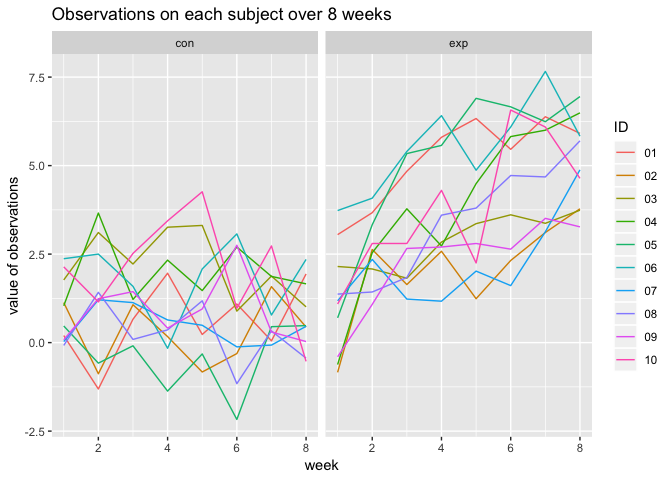
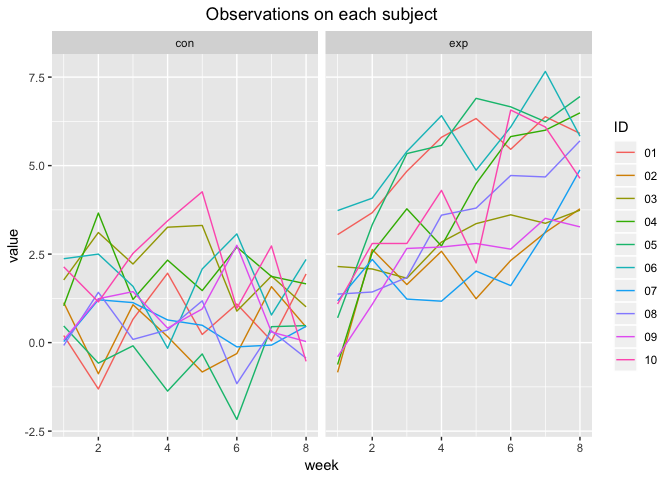
plot estimate

Changed region(s): [[0.0625, 0.0, 0.6562, 0.0625], [0.0, 0.375, 0.0312, 0.6562]]

diff --git a/p8105_hw5_zf2211.md b/p8105_hw5_zf2211.md
@@ -70,10 +70,11 @@ data %>%
   ggplot(aes(x = as.numeric(week), y = value, color = ID)) +
   geom_line() +
   facet_grid(.~group) +
-  labs(title = "Observations on each subject over 8 weeks", 
+  labs(title = "Observations on each subject", 
        x = "week",
-       y = "value of observations"
-       )
+       y = "value"
+       ) +
+  theme(plot.title = element_text(hjust = 0.5))
 ```
 
 ![](p8105_hw5_zf2211_files/figure-markdown_github/unnamed-chunk-6-1.png)
@@ -116,7 +117,7 @@ homicide_data <-
 ```
 
 ``` r
-# summarize within cities to obtain the total number of homicides
+# obtain total number of homicides
 homicide_data <- 
   homicide_data %>% 
   group_by(city_state) %>% 
@@ -129,10 +130,12 @@ homicide_data <-
   group_by(city_state) %>% 
   mutate(unsolved = total - length(uid))
 
-# Table that shows total and unsolved cases
+# total and unsolved cases
 unsolved_data <- 
   homicide_data %>% 
-  distinct(city_state, unsolved, total)
+  distinct(city_state, unsolved, total) %>% 
+  as.data.frame()  #make into dataframe
+# draw table
 unsolved_data %>% 
   knitr::kable()
 ```
@@ -193,24 +196,53 @@ unsolved_data %>%
 
 ``` r
 # prop.test Baltimore
-prop_Ba <-  
+prop_Ba <-  # save as R object 
   prop.test(x = unsolved_data$unsolved[unsolved_data$city_state == "Baltimore,MD"], 
-            n = unsolved_data$total[unsolved_data$city_state == "Baltimore,MD"],
-            alternative = "two.sided") %>% 
+            n = unsolved_data$total[unsolved_data$city_state == "Baltimore,MD"]) %>% 
   broom::tidy() 
 
+
 # pull the estimated proportion and confidence intervals 
-prop_Ba["estimate"]
+cbind(prop_Ba["estimate"], prop_Ba["conf.low"], prop_Ba["conf.high"])
 ```
 
-    ## # A tibble: 1 x 1
-    ##   estimate
-    ##      <dbl>
-    ## 1    0.646
+    ##    estimate  conf.low conf.high
+    ## 1 0.6455607 0.6275625 0.6631599
+
+This is saved R object 0.6455607, 239.0109657, 6.461910910^{-54}, 1, 0.6275625, 0.6631599, 1-sample proportions test with continuity correction, two.sided
 
 ``` r
-cbind(prop_Ba["conf.low"], prop_Ba["conf.high"])
+# Create function to prop.test for city
+prop_test = function (city) {
+  result =  
+    prop.test(x = unsolved_data$unsolved[unsolved_data$city_state == city],
+              n = unsolved_data$total[unsolved_data$city_state == city]) %>% 
+    broom::tidy()
+} 
 ```
 
-    ##    conf.low conf.high
-    ## 1 0.6275625 0.6631599
+``` r
+# create tidy dataframe
+unsolved_data <- 
+  unsolved_data %>% 
+  mutate(prop_test = map(unsolved_data$city_state, prop_test)) %>% 
+  unnest()
+```
+
+    ## Warning in prop.test(x = unsolved_data$unsolved[unsolved_data$city_state
+    ## == : Chi-squared approximation may be incorrect
+
+``` r
+# plot the estimates and CIs for each city
+unsolved_data %>% 
+  mutate(city_state = fct_reorder(city_state, estimate)) %>%  #reorder city in a rank of estimates
+  arrange(city_state) %>% 
+  ggplot(aes(x = estimate, y = city_state)) +
+  geom_point() +
+  geom_errorbarh(aes(xmin = conf.low, xmax = conf.high)) +
+  labs(title = "Estimates and CIs for each city", x = "Estimated Proportions and CIs", y = "City") +
+  theme_bw() +
+  theme(plot.title = element_text(hjust = 0.5)) 
+```
+
+![](p8105_hw5_zf2211_files/figure-markdown_github/unnamed-chunk-13-1.png)
